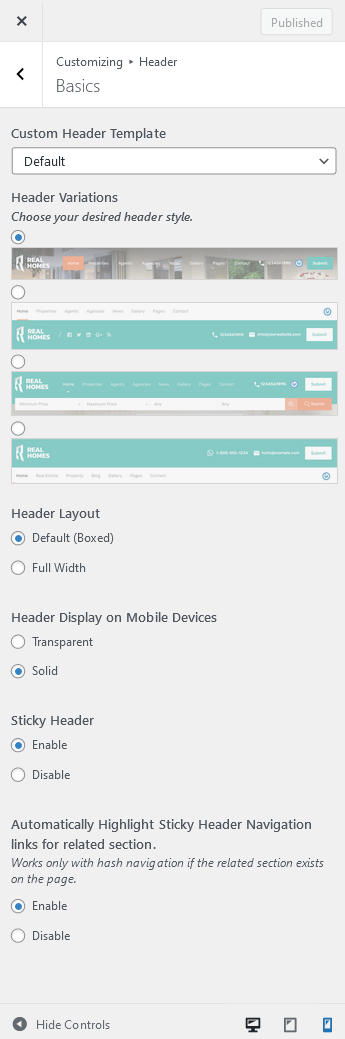
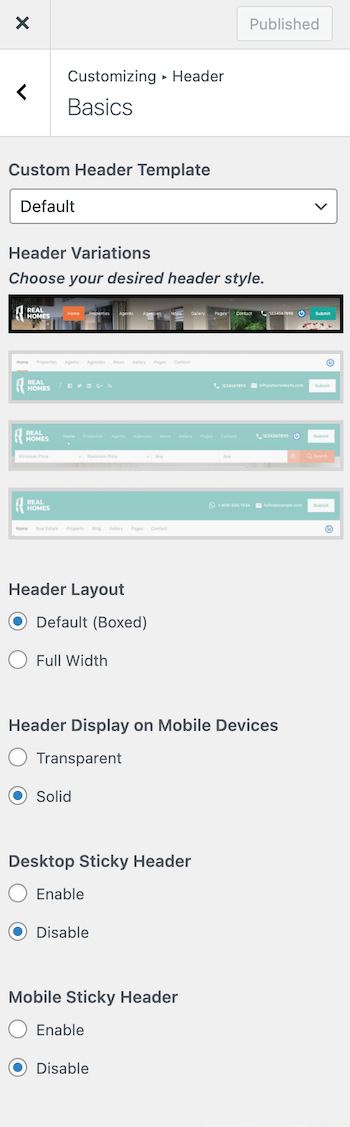
Updated Header Settings

diff --git a/docs/configure-header-settings.md b/docs/configure-header-settings.md
@@ -30,11 +30,13 @@ You can change **Header Settings** in **Dashboard → RealHomes → Customize Se
 
 ### **Sticky Header**
 
-The **Sticky Header** option is found in **Dashboard → RealHomes → Customize Settings → Header → Basics**.
+The **Sticky Header** option is found in **Dashboard → RealHomes → Customize Settings → Header → Basics**. Using these settings, you can either set the standard theme headers as **Sticky Header** or you can design a header using Elementor and set it as **Sticky Header**.
 
 !!! info "Important"
 
     If you have created your header with Elementor, follow the instructions provided in <a href="https://realhomes.io/documentation/custom-header-footer-elementor/#how-to-make-elementor-header-sticky">this guide</a> to make it sticky.
+
+![Sticky Header Settings](images/header/sticky-header.png)
 
 ### **Contact Information**
 
